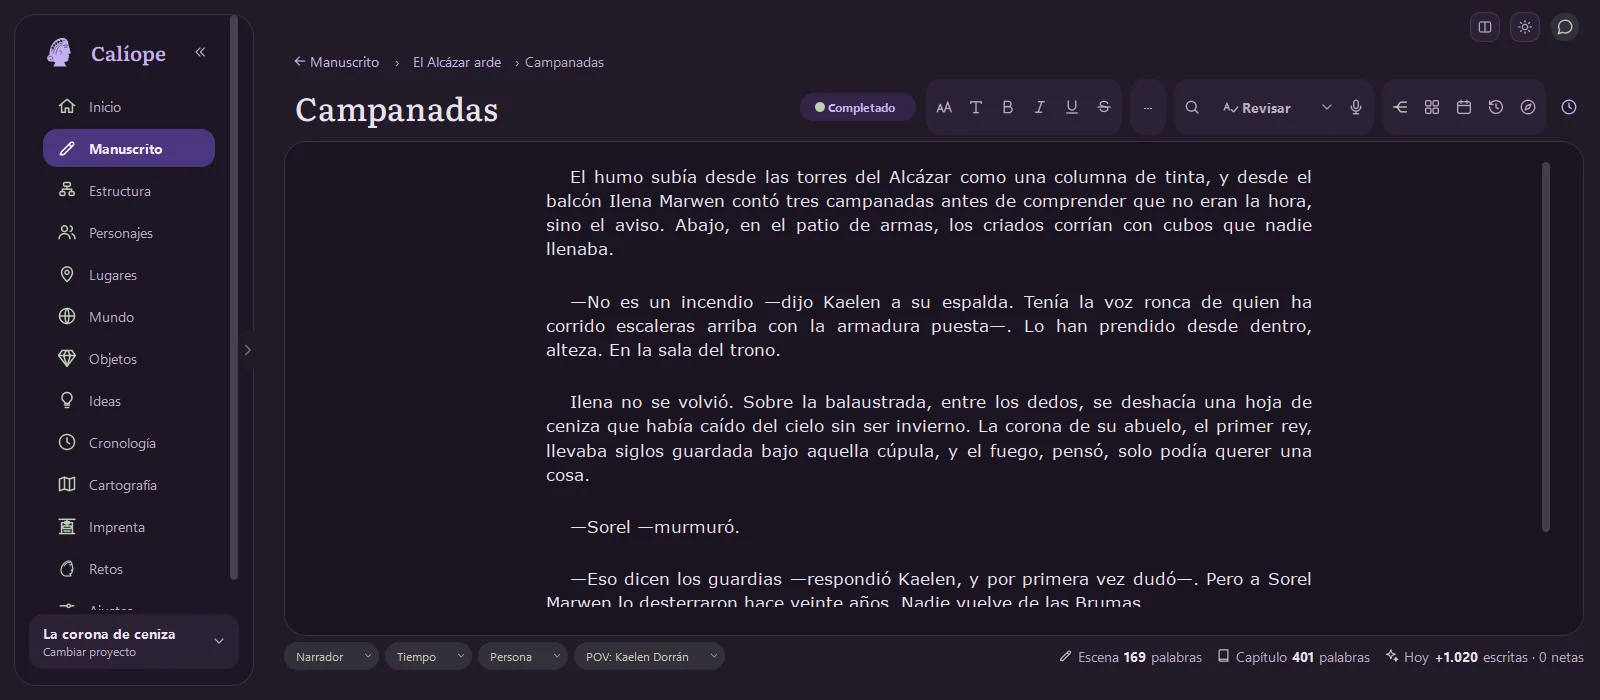
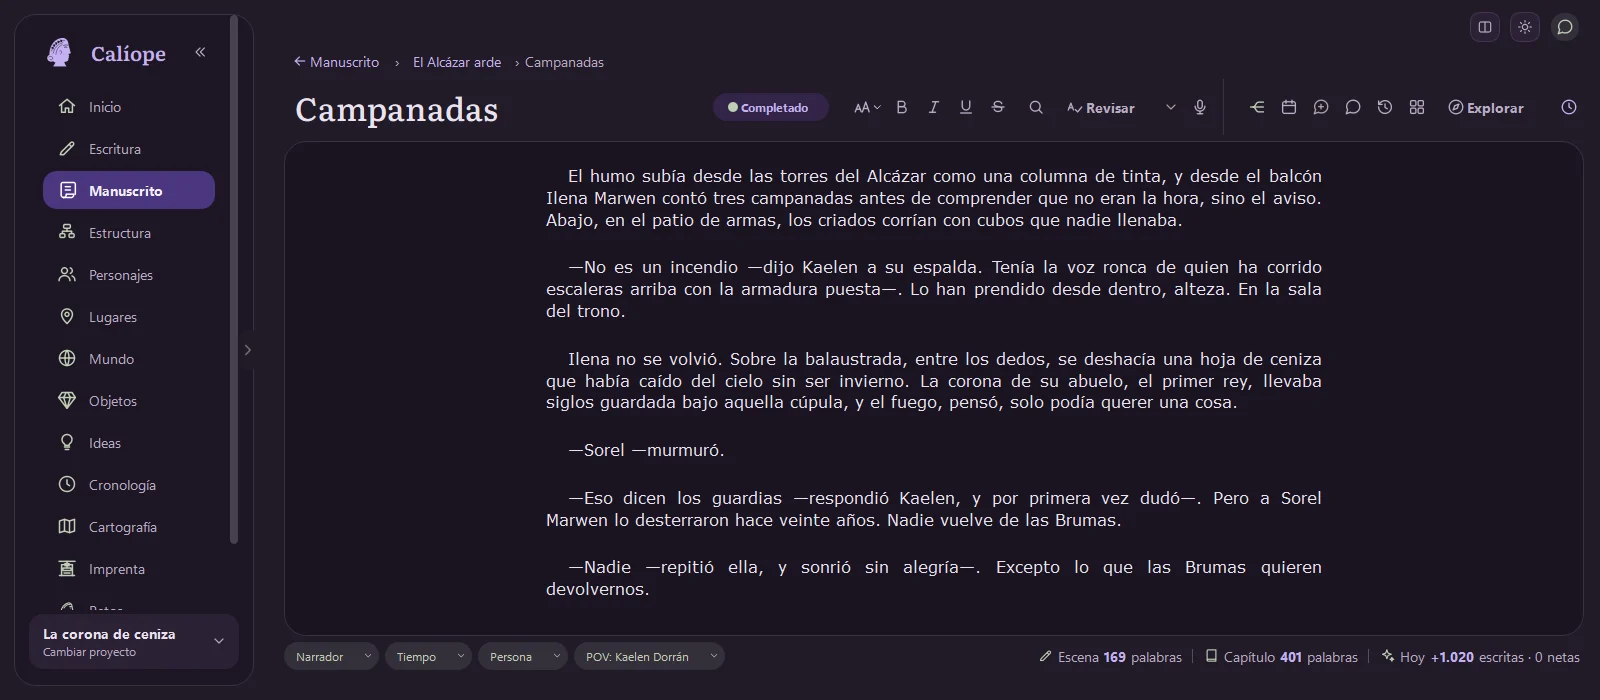
Calíope 2.5.0: web con Escritura, capturas nuevas y enlaces de descarga

diff --git a/docs/index.html b/docs/index.html
@@ -3,7 +3,7 @@
 <head>
 <meta charset="utf-8">
 <meta name="viewport" content="width=device-width, initial-scale=1">
-<meta name="caliope-version" content="2.4.0">
+<meta name="caliope-version" content="2.5.0">
 <title>Calíope — Invoca a tus musas. Da vida a tus mundos.</title>
 <meta name="description" content="Calíope es una aplicación de escritorio para escritores: manuscrito con revisión de continuidad, escaleta y matriz de ritmo, personajes, mundo, mapas, cronologías y exportación a EPUB, Kindle, DOCX y PDF. Todo en tu ordenador, sin cuentas ni nube.">
 <meta name="theme-color" content="#F4EFE6">
@@ -40,14 +40,16 @@
 <section class="hero"><div class="wrap">
 <h1>Invoca a<span>tus musas.</span></h1>
 <aside><p>Un taller de escritura para tu ordenador: manuscrito, personajes, mapas y cronologías en un solo lugar, y de ahí a tus lectores.</p>
-<div class="dl"><a class="btn big" href="https://github.com/marinaescobar/caliope/releases/download/v2.4.0/Caliope-Setup-2.4.0.exe"><svg aria-hidden="true"><use href="#dl"/></svg><span>Descargar para Windows<small>Caliope-Setup-2.4.0.exe</small></span></a>
-<a class="btn big" href="https://github.com/marinaescobar/caliope/releases/download/v2.4.0/Caliope-2.4.0-macOS-arm64.dmg"><svg aria-hidden="true"><use href="#dl"/></svg><span>Descargar para Mac<small>Caliope-2.4.0-macOS-arm64.dmg</small></span></a></div>
+<div class="dl"><a class="btn big" href="https://github.com/marinaescobar/caliope/releases/download/v2.5.0/Caliope-Setup-2.5.0.exe"><svg aria-hidden="true"><use href="#dl"/></svg><span>Descargar para Windows<small>Caliope-Setup-2.5.0.exe</small></span></a>
+<a class="btn big" href="https://github.com/marinaescobar/caliope/releases/download/v2.5.0/Caliope-2.5.0-macOS-arm64.dmg"><svg aria-hidden="true"><use href="#dl"/></svg><span>Descargar para Mac<small>Caliope-2.5.0-macOS-arm64.dmg</small></span></a></div>
 <p class="free">Gratis, sin registro y sin conexión.</p></aside></div>
 </section>
 
 <section class="shots" id="dentro"><div class="wrap">
-<h2>Mírala por dentro</h2><p class="lead">Capturas de la versión 2.4.0 con un proyecto de ejemplo, en el tema oscuro.</p>
+<h2>Mírala por dentro</h2><p class="lead">Capturas de la versión 2.5.0 con un proyecto de ejemplo, en el tema oscuro.</p>
 <div class="gal">
+<figure><div class="fr"><img src="img/escritura.webp" width="1600" height="900" alt="Módulo Escritura: todo el manuscrito de corrido en un solo editor, con la barra de formato y las divisiones de capítulos y escenas"></div><figcaption><b>Escritura</b>Tu manuscrito entero de corrido. Importa un archivo y Calíope detecta partes, capítulos y escenas; tú confirmas las dudas.</figcaption></figure>
+<figure><div class="fr"><img src="img/manuscrito.webp" width="1600" height="700" alt="Módulo Manuscrito: una escena abierta en el editor con su panel de capítulos"></div><figcaption><b>Manuscrito</b>Partes, capítulos y escenas con estados e historial de versiones. Lo que escribes aquí se ve en Escritura, y al revés.</figcaption></figure>
 <figure><div class="fr"><img src="img/matriz.webp" width="1040" height="700" alt="Matriz de Calíope: capítulos en las filas y personajes en las columnas, con las ausencias prolongadas resaltadas"></div><figcaption><b>Matriz de ritmo</b>Quién aparece en cada capítulo y dónde se enfría la trama.</figcaption></figure>
 <figure><div class="fr"><img src="img/continuidad.webp" width="1600" height="900" alt="Pestaña Continuidad del Manuscrito con avisos sobre nombres y rasgos que no coinciden con las fichas"></div><figcaption><b>Continuidad</b>Avisos locales cuando un nombre o un rasgo no casa con tus fichas.</figcaption></figure>
 <figure><div class="fr"><img src="img/ideas.webp" width="1600" height="700" alt="Módulo Ideas con tres notas en bruto"></div><figcaption><b>Ideas</b>Apunta lo que se te ocurre y, cuando esté listo, llévalo al manuscrito o a una ficha.</figcaption></figure>
@@ -57,7 +59,7 @@
 <section class="fun" id="funciones"><div class="wrap">
 <div class="intro"><h2>Cada pieza, en su sitio</h2><p>Cada parte de tu historia tiene su lugar, y todas hablan entre sí. Pasa el ratón por una tarjeta, o púlsala, para ver qué hace.</p></div>
 <div class="deck">
-<div class="card" tabindex="0"><svg><use href="#pen"/></svg><h3>Manuscrito</h3><p>Partes, capítulos y escenas en un editor limpio, con estados, historial de versiones y corrector bajo demanda.</p></div>
+<div class="card" tabindex="0"><svg><use href="#pen"/></svg><h3>Escritura</h3><p>Todo el manuscrito de corrido en un solo documento, con índice y sincronía con Manuscrito: partes, capítulos, escenas, versiones y corrector bajo demanda.</p></div>
 <div class="card" tabindex="0"><svg><use href="#tree"/></svg><h3>Estructura</h3><p>Una Escaleta de tarjetas por actos o tramas, y una Matriz que te enseña dónde se rompe el ritmo.</p></div>
 <div class="card" tabindex="0"><svg><use href="#user"/></svg><h3>Personajes</h3><p>Fichas a medida para personajes, lugares y objetos, enlazadas con tus escenas.</p></div>
 <div class="card" tabindex="0"><svg><use href="#globe"/></svg><h3>Mundo narrativo</h3><p>Universo, mitología, bestiario, historia y civilizaciones, con campos para cada entrada.</p></div>
@@ -90,10 +92,10 @@
 </div></div></section>
 
 <section class="inst" id="descarga"><div class="wrap">
-<div><h2>Instala Calíope en un minuto</h2><p class="lead">Versión 2.4.0. Gratis, sin cuenta y sin conexión: tu obra se queda en tu ordenador.</p>
+<div><h2>Instala Calíope en un minuto</h2><p class="lead">Versión 2.5.0. Gratis, sin cuenta y sin conexión: tu obra se queda en tu ordenador.</p>
 <div class="dl">
-<a class="btn big" href="https://github.com/marinaescobar/caliope/releases/download/v2.4.0/Caliope-Setup-2.4.0.exe"><svg aria-hidden="true"><use href="#dl"/></svg><span>Descargar para Windows<small>Caliope-Setup-2.4.0.exe</small></span></a>
-<a class="btn big" href="https://github.com/marinaescobar/caliope/releases/download/v2.4.0/Caliope-2.4.0-macOS-arm64.dmg"><svg aria-hidden="true"><use href="#dl"/></svg><span>Descargar para Mac<small>Caliope-2.4.0-macOS-arm64.dmg</small></span></a></div>
+<a class="btn big" href="https://github.com/marinaescobar/caliope/releases/download/v2.5.0/Caliope-Setup-2.5.0.exe"><svg aria-hidden="true"><use href="#dl"/></svg><span>Descargar para Windows<small>Caliope-Setup-2.5.0.exe</small></span></a>
+<a class="btn big" href="https://github.com/marinaescobar/caliope/releases/download/v2.5.0/Caliope-2.5.0-macOS-arm64.dmg"><svg aria-hidden="true"><use href="#dl"/></svg><span>Descargar para Mac<small>Caliope-2.5.0-macOS-arm64.dmg</small></span></a></div>
 <ul class="reqs"><li><b>Windows:</b> 10 u 11.</li><li><b>Mac:</b> con chip Apple (M1, M2, M3, M4…).</li><li><b>Linux:</b> por ahora sin instalador.</li><li>Para escribir no hace falta internet ni registro.</li></ul></div>
 <div class="os">
 <div><h3>En Windows</h3><ol>

diff --git a/README.md b/README.md
@@ -12,11 +12,11 @@ Aplicación de escritorio para escritores: organiza tu novela en partes, capítu
 
 ## ⬇ Descargar
 
-<a href="https://github.com/marinaescobar/caliope/releases/download/v2.4.0/Caliope-Setup-2.4.0.exe"><img src="https://img.shields.io/badge/Descargar%20para-Windows%20(.exe)-6C4AB6?style=for-the-badge&logo=windows&logoColor=white" alt="Descargar para Windows"></a>
+<a href="https://github.com/marinaescobar/caliope/releases/download/v2.5.0/Caliope-Setup-2.5.0.exe"><img src="https://img.shields.io/badge/Descargar%20para-Windows%20(.exe)-6C4AB6?style=for-the-badge&logo=windows&logoColor=white" alt="Descargar para Windows"></a>
 &nbsp;
-<a href="https://github.com/marinaescobar/caliope/releases/download/v2.4.0/Caliope-2.4.0-macOS-arm64.dmg"><img src="https://img.shields.io/badge/Descargar%20para-Mac%20Apple%20Silicon%20(.dmg)-A8B89F?style=for-the-badge&logo=apple&logoColor=1F2820&labelColor=A8B89F&color=A8B89F" alt="Descargar para Mac con Apple Silicon"></a>
+<a href="https://github.com/marinaescobar/caliope/releases/download/v2.5.0/Caliope-2.5.0-macOS-arm64.dmg"><img src="https://img.shields.io/badge/Descargar%20para-Mac%20Apple%20Silicon%20(.dmg)-A8B89F?style=for-the-badge&logo=apple&logoColor=1F2820&labelColor=A8B89F&color=A8B89F" alt="Descargar para Mac con Apple Silicon"></a>
 
-<sub>Versión 2.4.0 · [Página web](https://marinaescobar.github.io/caliope/) · [Todas las versiones y novedades](https://github.com/marinaescobar/caliope/releases)</sub>
+<sub>Versión 2.5.0 · [Página web](https://marinaescobar.github.io/caliope/) · [Todas las versiones y novedades](https://github.com/marinaescobar/caliope/releases)</sub>
 
 </div>
 
@@ -24,8 +24,8 @@ Aplicación de escritorio para escritores: organiza tu novela en partes, capítu
 
 | Tu equipo | Archivo | Enlace directo |
 |---|---|---|
-| 🪟 **Windows** 10 / 11 | `Caliope-Setup-2.4.0.exe` | [Descargar](https://github.com/marinaescobar/caliope/releases/download/v2.4.0/Caliope-Setup-2.4.0.exe) |
-| 🍎 **Mac con chip Apple** (M1, M2, M3, M4…) | `Caliope-2.4.0-macOS-arm64.dmg` | [Descargar](https://github.com/marinaescobar/caliope/releases/download/v2.4.0/Caliope-2.4.0-macOS-arm64.dmg) |
+| 🪟 **Windows** 10 / 11 | `Caliope-Setup-2.5.0.exe` | [Descargar](https://github.com/marinaescobar/caliope/releases/download/v2.5.0/Caliope-Setup-2.5.0.exe) |
+| 🍎 **Mac con chip Apple** (M1, M2, M3, M4…) | `Caliope-2.5.0-macOS-arm64.dmg` | [Descargar](https://github.com/marinaescobar/caliope/releases/download/v2.5.0/Caliope-2.5.0-macOS-arm64.dmg) |
 
 ### Instalar en Windows
 Ejecuta el `.exe` y sigue el asistente (no necesita permisos de administrador). Si Windows SmartScreen avisa, pulsa **Más información › Ejecutar de todas formas**: el instalador aún no está firmado.
@@ -43,6 +43,7 @@ Calíope busca e instala actualizaciones desde **Ajustes › Información de Cal
 
 ## Qué incluye
 
+- **Escritura** (nombre provisional): todo el manuscrito de corrido en un solo documento, con índice, la barra del editor, zoom, páginas y palabras. Lo que escribes se guarda en la escena que toca y se ve en Manuscrito (y al revés). La estructura (partes, capítulos y escenas) se marca dentro del propio texto: se detecta al importar un archivo y se corrige con el menú contextual o Ctrl+Alt+1, 2 y 3.
 - **Manuscrito** por partes, capítulos y escenas, con propósito, resumen e ideas en cada nivel, importación de manuscritos completos, partes, capítulos o escenas (`.docx`, `.pdf`, `.txt`) con el botón «Importar», escenas opcionales (sin ellas cada capítulo es un solo texto) y un panel de análisis con gráficos y recomendaciones.
 - **Formato de texto** en las escenas: negrita, cursiva, subrayado y tachado (`Ctrl+B`, `Ctrl+I`, `Ctrl+U`, `Ctrl+Mayús+X` o los botones de la barra). Se guarda con la escena y con cada versión, viaja en las copias `.clp` y llega a la exportación (EPUB, Kindle, DOCX y PDF).
 - **Pantalla dividida**: abre al lado de lo que haces cualquier otra sección de Calíope, o una escena, un capítulo o una ficha (botón de arriba a la derecha o clic derecho › «Abrir en división de pantalla»). En columnas si hay sitio y en filas si la ventana se estrecha; nunca en el Modo Foco ni en el Ultra Foco.
